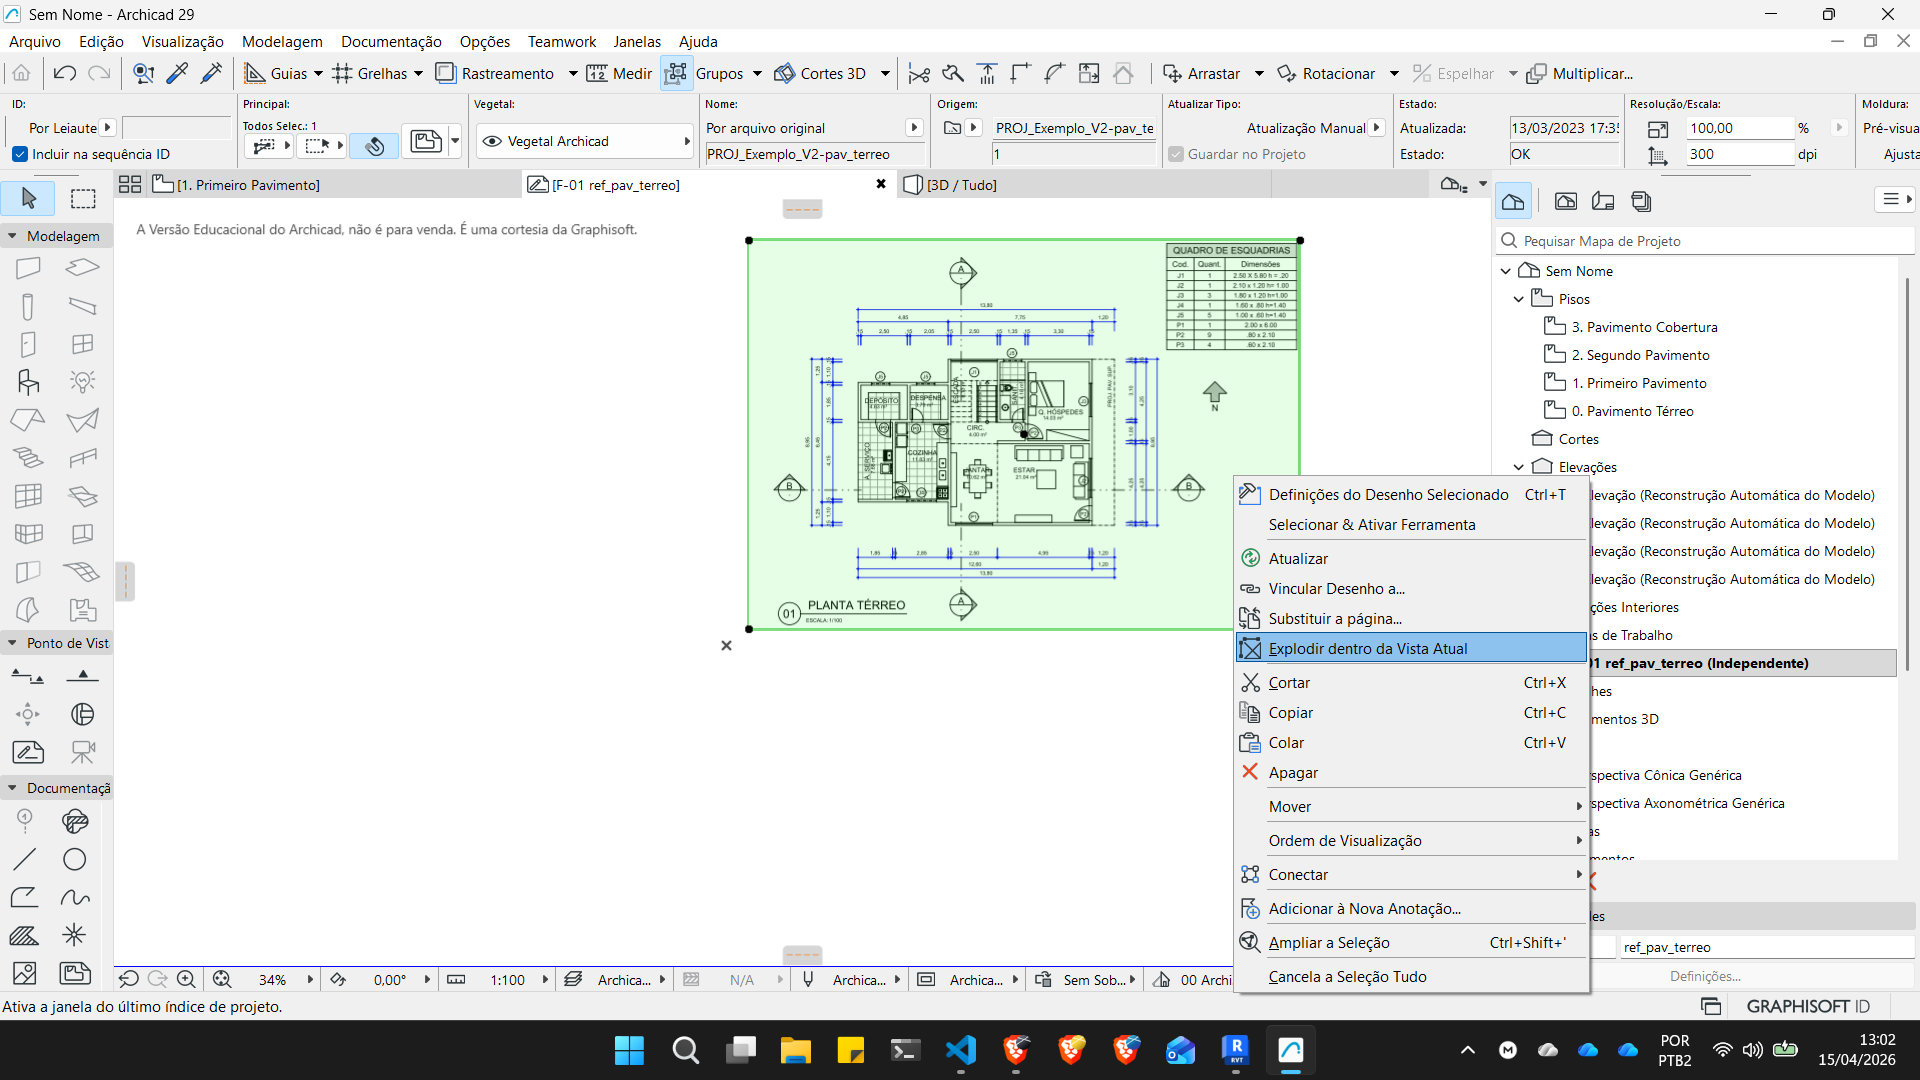
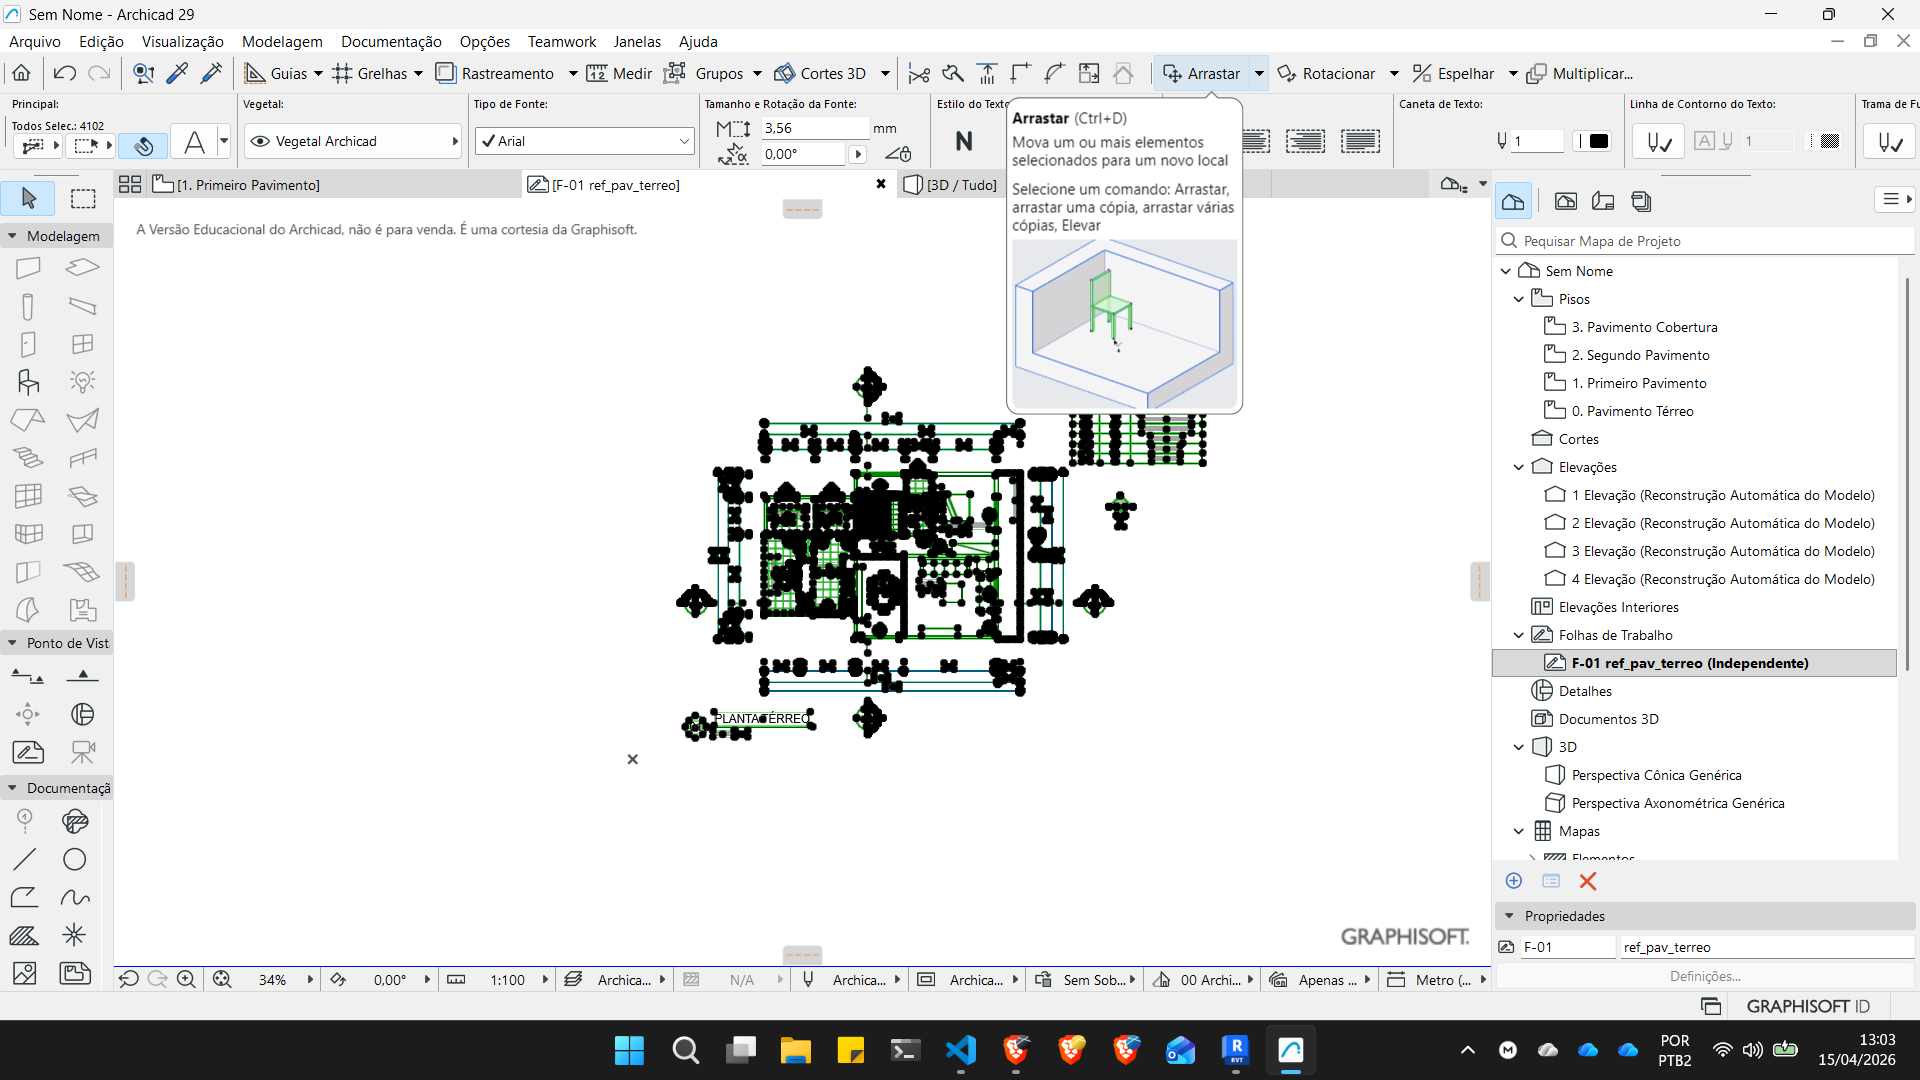
inserindo referenias

diff --git a/docs/folhas_de_trabalho/referencias.md b/docs/folhas_de_trabalho/referencias.md
@@ -1,16 +1,30 @@
 # Inserindo referências no Archicad
 
+## Utilizando uma folha de trabalho
+
+O primeiro passo é criar uma nova folha de trabalho. Procure o ícone das Folhas de trabalho no **Mapa de Projeto**e clique com o botão direito. escola a opção **Nova Folha de trabalho independente**.
+
+![gif](figs/folha_de_trab.gif)
+
+## Inserindo o desenho
+
+No caminho **Arquivo -> Conteúdo Externo** Clique na opção **Colocar Desenho Externo**.
 
 ![alt text](./figs/fig_01.png)
 
-![alt text](./figs/fig_02.png)
+Navegue até o local do arquivo e selecione-o. Posicione o desenho na **Folha de Trabalho**. Em seguida clique com o botão direito no desenho e escolha a opção **explodir dentro da vista atual**. Na caixa de diálogo desmarque a opção **Manter elementos Originais depois da explosão**. Após a explosão selecione todos os elementos da folha (abrindo o retângulo de seleção ou pelo atalho ```crtl + a```) e mova os elementos por um ponto expressivo do desenho para o ponto central da folha (marcado com um ```X```).
 
-![alt text](./figs/fig_03.png)
+![alt text](figs/ins_des.gif)
 
-![alt text](./figs/fig_04.png)
+## Ativando a opção de rastreamento
 
-![alt text](./figs/fig_05.png)
+![alt text](figs/rastreamento.gif)
+
+---
+
+## Vídeos de referência
+
+<iframe width="560" height="315" src="https://www.youtube.com/embed/H1F0YL-XfjU?si=FBW_JFRPtgXCb4Le" title="YouTube video player" frameborder="0" allow="accelerometer; autoplay; clipboard-write; encrypted-media; gyroscope; picture-in-picture; web-share" referrerpolicy="strict-origin-when-cross-origin" allowfullscreen></iframe>
 
 <iframe width="560" height="315" src="https://www.youtube.com/embed/gfUIDHBMHhE?si=gseWNxlOp4K5MWPM" title="YouTube video player" frameborder="0" allow="accelerometer; autoplay; clipboard-write; encrypted-media; gyroscope; picture-in-picture; web-share" referrerpolicy="strict-origin-when-cross-origin" allowfullscreen></iframe>
 
-<iframe width="560" height="315" src="https://www.youtube.com/embed/H1F0YL-XfjU?si=FBW_JFRPtgXCb4Le" title="YouTube video player" frameborder="0" allow="accelerometer; autoplay; clipboard-write; encrypted-media; gyroscope; picture-in-picture; web-share" referrerpolicy="strict-origin-when-cross-origin" allowfullscreen></iframe>
